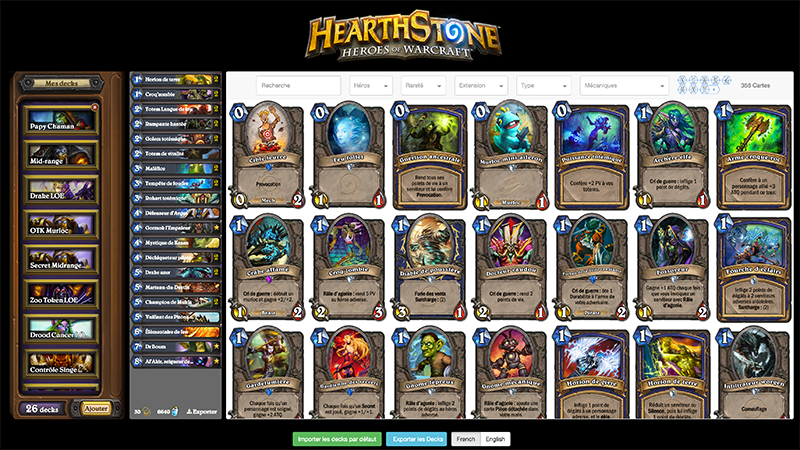
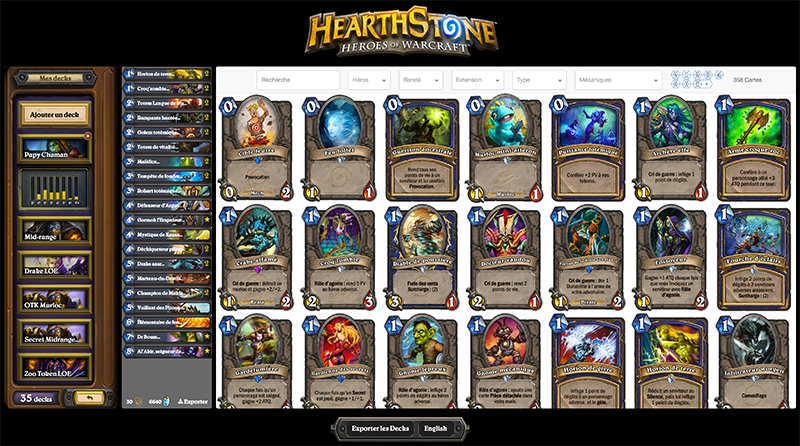
Better sort on cards and refacto Readme

diff --git a/test/scripts/store/HearthstoneStoreTest.js b/test/scripts/store/HearthstoneStoreTest.js
@@ -84,17 +84,33 @@ describe('HearthstoneStoreTest', () => {
                 nbCards: 0,
                 cost: 0
             }]);
+            chai.assert.equal(HearthstoneStore.current, 0);
+
+            HearthstoneStore.addDeck('Bar', 'HERO_02');
+
+            chai.assert.deepEqual(HearthstoneStore.decks, [{
+                name: 'Bar',
+                cards: [],
+                hero: 'HERO_02',
+                nbCards: 0,
+                cost: 0
+            }, {
+                name: 'Foo',
+                cards: [],
+                hero: 'HERO_01',
+                nbCards: 0,
+                cost: 0
+            }]);
+
+            chai.assert.equal(HearthstoneStore.current, 0);
         });
         it('should be present even after reinit', () => {
-            chai.assert.equal(HearthstoneStore.decks.length, 1);
+            chai.assert.equal(HearthstoneStore.decks.length, 2);
         });
     });
 
     describe('removeDeck(current)', () => {
         it('should remove a specific deck', () => {
-            chai.assert.equal(HearthstoneStore.decks.length, 1);
-
-            HearthstoneStore.addDeck('Bar', 'HERO_02');
             chai.assert.equal(HearthstoneStore.decks.length, 2);
 
             HearthstoneStore.removeDeck(1);
@@ -350,6 +366,12 @@ describe('HearthstoneStoreTest', () => {
             chai.assert.equal(HearthstoneStore.slugify('àáâãäå éèêë œ'), 'aaaaaa eeee oe');
         });
     });
+
+    //describe('sortCards(cards)', () => {
+    //    it('should sort cards by cost then translated name', () => {
+    //
+    //    });
+    //});
 
     describe('getLocale()', () => {
         it('should return proper locale', () => {

diff --git a/src/scripts/store/HearthstoneStore.jsx b/src/scripts/store/HearthstoneStore.jsx
@@ -56,7 +56,7 @@ const HearthstoneStore = Reflux.createStore({
     },
 
     addDeck(deckName, hero) {
-        this.decks.push({
+        this.decks.unshift({
             name: deckName,
             cards: [],
             hero: hero,
@@ -65,6 +65,9 @@ const HearthstoneStore = Reflux.createStore({
         });
 
         this.write();
+
+        this.current = null;
+        this.loadDeck(0);
     },
 
     removeDeck(current) {
@@ -408,6 +411,14 @@ const HearthstoneStore = Reflux.createStore({
             .replace(/[àáâãäå]/g,'a')
             .replace(/[éèêë]/g,'e')
             .replace(/[œ]/g,'oe');
+    },
+
+    sortCards(cards) {
+        return _.sortByAll(_.map(cards, card => {
+            return _.assign(card, {
+                name: this.slugify(TranslationHelper.translate(card.id))
+            });
+        }), ['cost', 'name']);
     },
 
     /* -------------

diff --git a/src/scripts/component/collection/Collection.jsx b/src/scripts/component/collection/Collection.jsx
@@ -1,6 +1,7 @@
 import React, { Component, PropTypes } from 'react';
-import DeckCurrentItem                 from './../deck-current/DeckCurrentItem';
 import _                               from 'lodash';
+import DeckCurrentItem                 from './../deck-current/DeckCurrentItem';
+import HearthstoneStore                from './../../store/HearthstoneStore';
 
 /**
  * Collection
@@ -14,7 +15,7 @@ class Collection extends Component {
 
         return (
             <div className="list-group">
-                {_.map(_.sortByAll(collection, ['cost', 'name']), (card, key) => {
+                {_.map(HearthstoneStore.sortCards(collection), (card, key) => {
                     return <DeckCurrentItem card={card} key={`collection-item-${key}`} />;
                 })}
             </div>

diff --git a/src/scripts/component/deck-current/DeckCurrent.jsx b/src/scripts/component/deck-current/DeckCurrent.jsx
@@ -15,7 +15,7 @@ class DeckCurrent extends Component {
     render() {
         let { deck } = this.props;
 
-        let currentDeck = _.map(_.sortByAll(deck.cards, ['cost', 'name']), (card, key) => {
+        let currentDeck = _.map(HearthstoneStore.sortCards(deck.cards), (card, key) => {
             return <DeckCurrentItem card={card} key={`current-deck-item-${key}`} />;
         });
 

diff --git a/README.md b/README.md
@@ -1,66 +1,87 @@
-Hearthstone Deck Manager
-========================
+# Hearthstone Deck Manager
 
 [![Build Status](https://travis-ci.org/qsomazzi/hs-deck-manager.svg?branch=master)](https://travis-ci.org/qsomazzi/hs-deck-manager)
 [![Codeship Status for qsomazzi/hs-deck-manager](https://codeship.com/projects/d2c87640-ac89-0133-dfd8-1e5da553331a/status?branch=master)](https://codeship.com/projects/131676)
 
-[DEMO](http://hearthstone.qsomazzi.fr)
+This app will provide a fast and simple deck manager for Hearthstone. 
+Users can easily create and share a deck.
 
-Require
--------
-- npm ~3.3.5
-- gulp ~3.9.0
+## Live-Demo
 
-Installation
-------------
+[See a live demo of the last stable version](http://hearthstone.qsomazzi.fr)
+
+## Features
+
+* Manage as many deck as you want
+* Import default builded decks
+* Manage my collection
+* Select language between :
+    * `enUS`
+    * `frFR`
+    * `deDE`
+    * `esES`
+    * `itIT` 
+    * `koKR`
+    * `plPL`
+    * `ptBR`
+    * `ruRU`
+    * `zhCN`
+    * `jaJP`
+* Export one deck to share it, or all your decks !
+* Calculate deck dust's cost within your current collection
+* Fast filters on cards list, find your card with the help of multiples filters
+    * Card Name
+    * Hero
+    * Rarity
+    * Card set
+    * Card Type
+    * Race
+    * Mechanics
+    * Status
+    * Cost
+
+## Planned features
+
+* Add more Unit tests
+* Add more doc
+* Add Lazy Load on media
+* Add translations on cards images (`koKR`, `plPL` and `jaJP`)
+* Add more mechanics filters
+* Redesign Filters Bar
+* Redesign search area
+* Redesign scroll cursor
+* Import JSON
+
+## Requirement
+
+* npm ~3.3.5
+* gulp ~3.9.0
+
+## Installation
 
 Run in a cmd line the following commands
-- `npm install`
-    - `npm start` -> for prod (build assets)
-    - `npm dev`   -> for dev (build assets, launch watchers and server)
-    - `npm test`  -> for test (launching tests units)
+* `npm install`  
+* Then :
+    * `npm start` -> for prod (build assets)
+    * `npm dev`   -> for dev (build assets, launch watchers and server)
+    * `npm test`  -> for test (launching tests units)
 
-Contributions
--------------
+## License
 
-Feel free to contribute to this project. You can submit a PR or an issue, I will look into it as soon as possible.
+Licensed under [MIT](http://www.opensource.org/licenses/mit-license.php). 
+Totally free for private or commercial projects.
 
-*Note* : All files located under `/src/scripts/resources/` are generated with API calls, don't edit them manually. 
+## Resources
 
-Features that needs to be developed
------------------------------------
+* [Blizzards assets](http://blizzard.gamespress.com)
+* [HearthStone API](https://market.mashape.com/omgvamp/hearthstone)
 
-With 'priority' order
+## History
 
-* Bug
-    * Wrong Sort in Collection and Current deck
-* High
-    * Finish Unit tests on HerthstoneStoreTest
-    * Add Lazy Load on media
-    * Redesign Filters Bar
-    * Redesign scroll cursor
-    * Redesign search area
-* Low
-    * Import JSON
-
-Resources
----------
-
-- [Blizzards assets](http://blizzard.gamespress.com)
-- [HearthStone API](https://market.mashape.com/omgvamp/hearthstone)
-
-
-History
--------
-
-| Version |                          Image                          |    Date    |
-|:-------:|:-------------------------------------------------------:|:----------:|
-|    v0   |                        ![v0][v0]                        | 20/12/2015 |
-|    v1   |                        ![v1][v1]                        | 29/12/2015 |
-|   v1.1  | ![v1.1-menu][v1.1-menu] ![v1.1-my-decks][v1.1-my-decks] | 03/01/2016 |
-
+| Version |   Image   |    Date    |
+|:-------:|:---------:|:----------:|
+|    v0   | ![v0][v0] | 20/12/2015 |
+|    v1   | ![v1][v1] | 03/01/2016 |
 
 [v0]: resources/docs/v0.png
 [v1]: resources/docs/v1.png
-[v1.1-menu]: resources/docs/v1.1-menu.png
-[v1.1-my-decks]: resources/docs/v1.1-my-decks.png

diff --git a/CONTRIBUTING.md b/CONTRIBUTING.md
@@ -1,0 +1,25 @@
+## Reporting bugs
+
+If you happen to find a bug, we kindly request you to report it. You may report it using Github by following these 3 points:
+
+  * Check if the bug is not already reported! (or in the planned features)
+  * A clear title to resume the issue
+  * A description of the workflow needed to reproduce the bug,
+
+> _NOTE:_ Don't hesitate giving as much information as you can
+
+## Pull requests
+
+### Writing a Pull Request
+
+> _NOTE:_ All files located under `/src/scripts/resources/` are generated with API calls, don't edit them manually.
+
+### Sending a Pull Request
+
+When you send a PR, just make sure that:
+
+* You add valid test cases.
+* Tests are green.
+* The related documentation is up-to-date.
+* Also don't forget to add a comment when you update a PR with a ping to the maintainer (``@username``), so he/she will get a notification.
+* Squash your commits into one commit.
